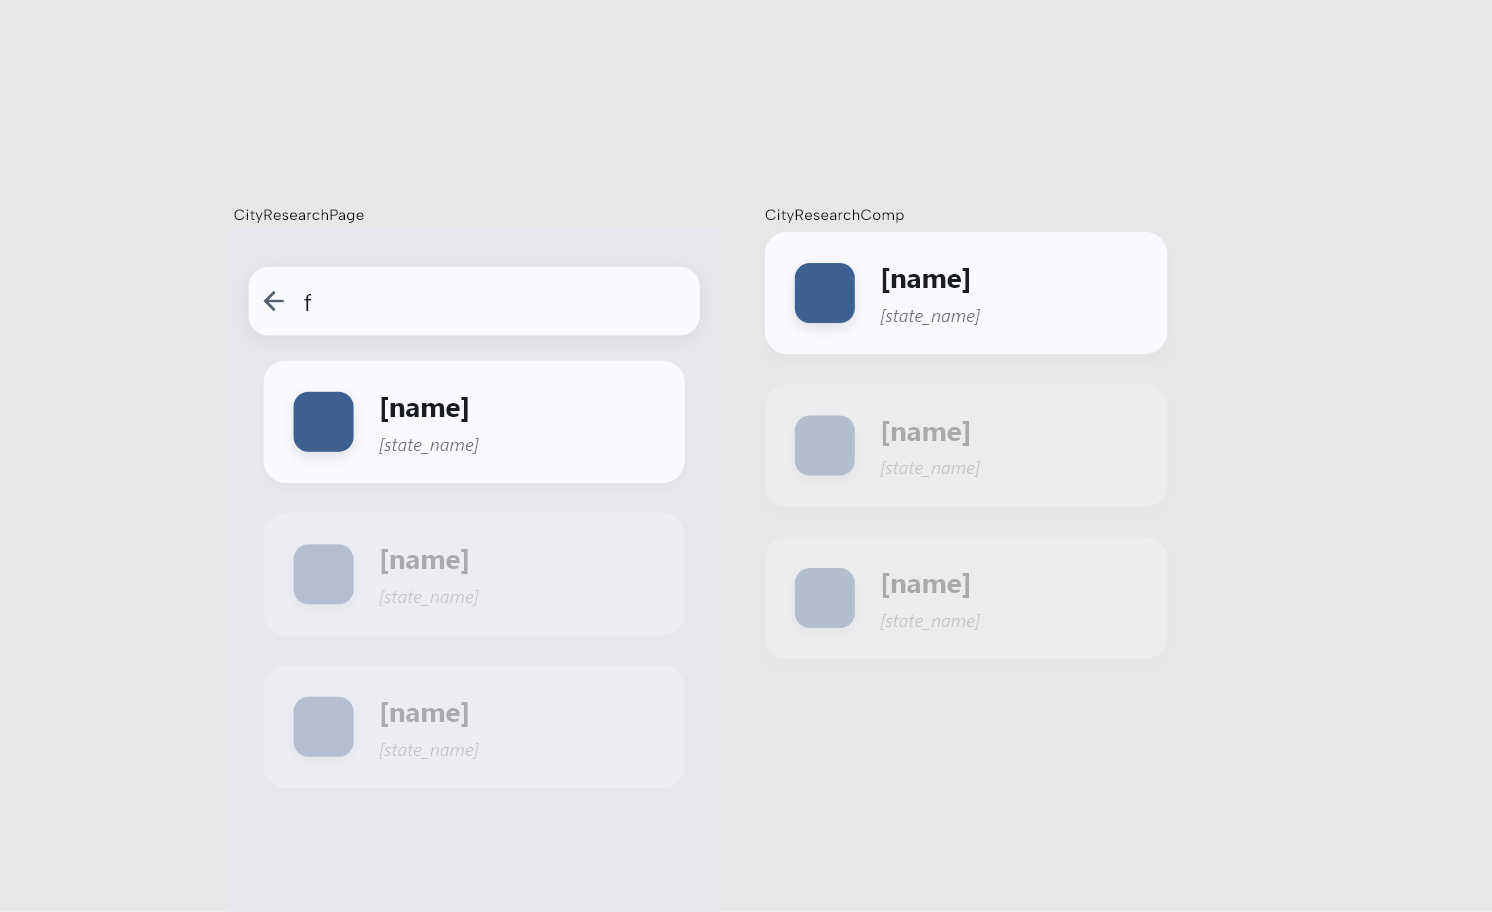
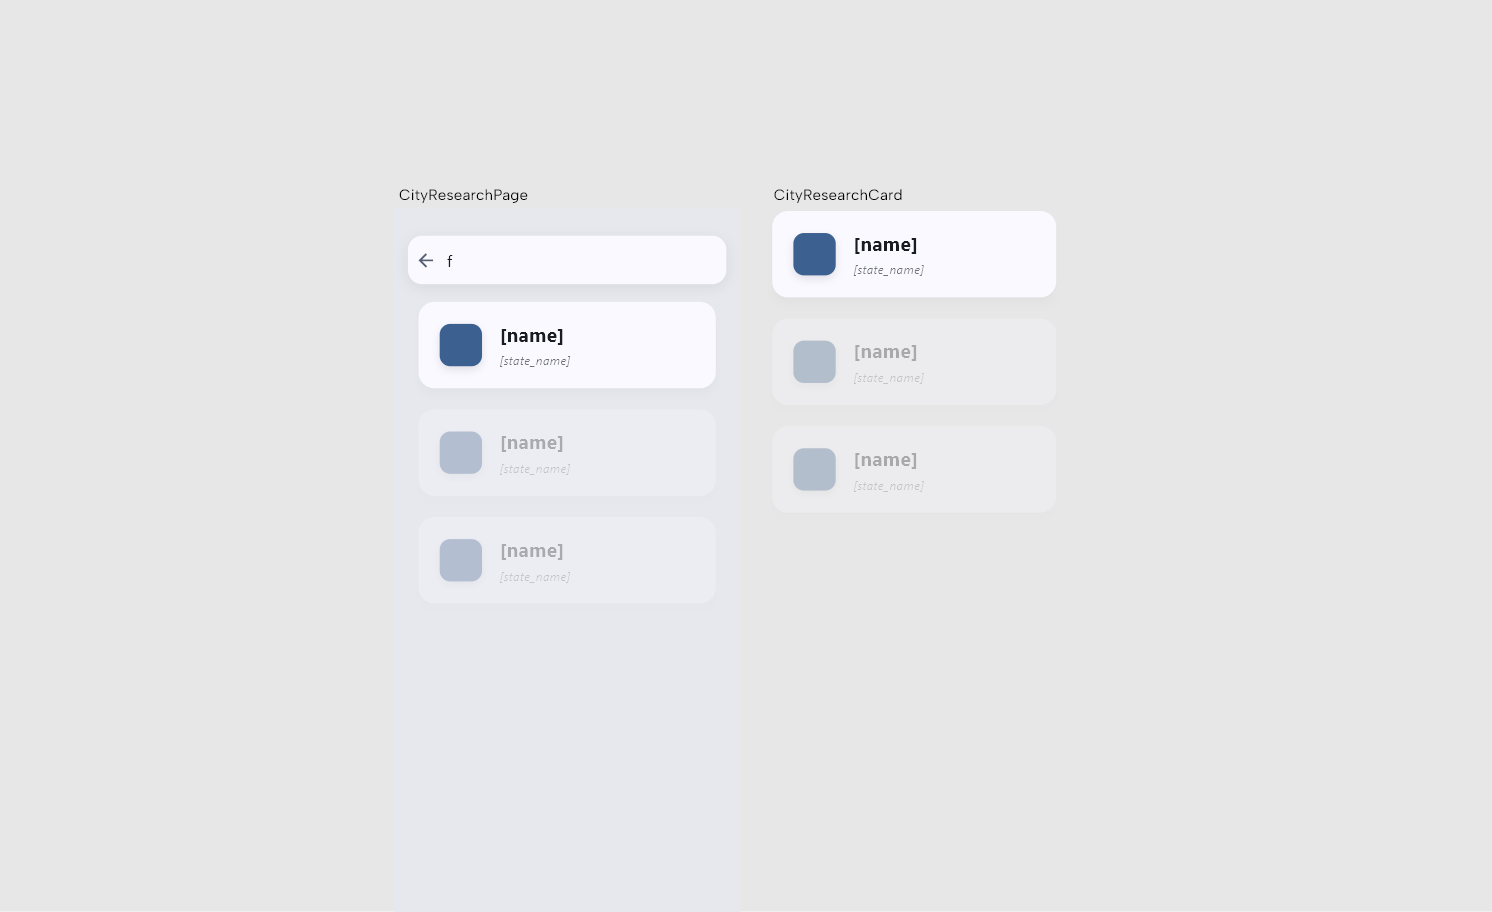
♻ Refactor components: rename and restructure Auth and CityResearch components

diff --git a/lib/components/city_research_card.dart b/lib/components/city_research_card.dart
@@ -5,20 +5,20 @@ import 'package:flutter_svg/flutter_svg.dart';
 import 'package:railmates/integrations/supabase_service.dart';
 
 @NowaGenerated({'auto-width': 330.0, 'auto-height': 350.0})
-class CityResearchComp extends StatefulWidget {
+class CityResearchCard extends StatefulWidget {
   @NowaGenerated({'loader': 'auto-constructor'})
-  const CityResearchComp({this.search = '', super.key});
+  const CityResearchCard({this.search = '', super.key});
 
   final String search;
 
   @override
-  State<CityResearchComp> createState() {
-    return _CityResearchCompState();
+  State<CityResearchCard> createState() {
+    return _CityResearchCardState();
   }
 }
 
 @NowaGenerated()
-class _CityResearchCompState extends State<CityResearchComp> {
+class _CityResearchCardState extends State<CityResearchCard> {
   @override
   Widget build(BuildContext context) {
     return DataBuilder<List<CitiesModel>>(
@@ -81,8 +81,9 @@ class _CityResearchCompState extends State<CityResearchComp> {
                         children: [
                           Text(
                             element.name!,
-                            style:
-                                Theme.of(context).textTheme.titleLarge
+                            style: Theme.of(context)
+                                    .textTheme
+                                    .titleLarge
                                     ?.copyWith(fontWeight: FontWeight.bold) ??
                                 const TextStyle(
                                   fontSize: 20.0,
@@ -92,15 +93,14 @@ class _CityResearchCompState extends State<CityResearchComp> {
                           const SizedBox(height: 6.0),
                           Text(
                             element.state_name!,
-                            style:
-                                Theme.of(
+                            style: Theme.of(
                                   context,
                                 ).textTheme.bodyMedium?.copyWith(
-                                  fontStyle: FontStyle.italic,
-                                  color: Theme.of(
-                                    context,
-                                  ).colorScheme.onSurface.withOpacity(0.6),
-                                ) ??
+                                      fontStyle: FontStyle.italic,
+                                      color: Theme.of(
+                                        context,
+                                      ).colorScheme.onSurface.withOpacity(0.6),
+                                    ) ??
                                 const TextStyle(
                                   fontSize: 14.0,
                                   fontStyle: FontStyle.italic,
@@ -128,9 +128,9 @@ class _CityResearchCompState extends State<CityResearchComp> {
         child: Text(
           error.toString(),
           style: Theme.of(context).textTheme.bodyLarge?.copyWith(
-            color: Theme.of(context).colorScheme.error,
-            fontWeight: FontWeight.bold,
-          ),
+                color: Theme.of(context).colorScheme.error,
+                fontWeight: FontWeight.bold,
+              ),
         ),
       ),
       future: SupabaseService().getAllCities(widget.search),

diff --git a/lib/pages/profile_page.dart b/lib/pages/profile_page.dart
@@ -2,9 +2,9 @@ import 'package:flutter/material.dart';
 import 'dart:typed_data';
 import 'package:nowa_runtime/nowa_runtime.dart';
 import 'package:railmates/integrations/supabase_service.dart';
-import 'package:railmates/components/auth_form_comp.dart';
+import 'package:railmates/components/auth_form.dart';
 import 'package:railmates/models/profiles_model.dart';
-import 'package:railmates/components/auth_text_form_field_comp.dart';
+import 'package:railmates/components/auth_text_form_field.dart';
 import 'package:railmates/models/cities_model.dart';
 import 'package:railmates/pages/city_research_page.dart';
 
@@ -137,7 +137,7 @@ class _ProfilePageState extends State<ProfilePage> {
                     ),
                   ),
                   FlexSizedBox(
-                    child: AuthFormComp(
+                    child: AuthForm(
                       nom: 'Create your profile',
                       buttonName: 'Save',
                       submitForm: () {
@@ -176,19 +176,19 @@ class _ProfilePageState extends State<ProfilePage> {
                             );
                       },
                       textFields: [
-                        AuthTextFormFieldComp(
+                        AuthTextFormField(
                           label: 'First Name',
                           required: true,
                           controller: firstNameController,
                           icon: Icons.person_outline,
                         ),
-                        AuthTextFormFieldComp(
+                        AuthTextFormField(
                           label: 'Last Name',
                           required: true,
                           controller: lastNameController,
                           icon: Icons.person,
                         ),
-                        AuthTextFormFieldComp(
+                        AuthTextFormField(
                           label: 'Birth Date',
                           required: true,
                           controller: birthDateController,
@@ -231,7 +231,7 @@ class _ProfilePageState extends State<ProfilePage> {
                             }
                           },
                         ),
-                        AuthTextFormFieldComp(
+                        AuthTextFormField(
                           label: 'City',
                           required: true,
                           controller: cityController,

diff --git a/lib/pages/register_page.dart b/lib/pages/register_page.dart
@@ -1,9 +1,9 @@
 import 'package:flutter/material.dart';
 import 'package:nowa_runtime/nowa_runtime.dart';
-import 'package:railmates/components/auth_form_comp.dart';
+import 'package:railmates/components/auth_form.dart';
 import 'package:railmates/integrations/supabase_service.dart';
 import 'package:railmates/pages/otp_page.dart';
-import 'package:railmates/components/auth_text_form_field_comp.dart';
+import 'package:railmates/components/auth_text_form_field.dart';
 import 'package:railmates/pages/login_page.dart';
 
 @NowaGenerated({'x': 420, 'y': 0, 'auto-width': 393.0, 'auto-height': 808.0})
@@ -58,7 +58,7 @@ class _RegisterPageState extends State<RegisterPage> {
                 crossAxisAlignment: CrossAxisAlignment.center,
                 children: [
                   FlexSizedBox(
-                    child: AuthFormComp(
+                    child: AuthForm(
                       nom: 'Create account',
                       buttonName: 'Sign up',
                       submitForm: () {
@@ -115,7 +115,7 @@ class _RegisterPageState extends State<RegisterPage> {
                         }
                       },
                       textFields: [
-                        AuthTextFormFieldComp(
+                        AuthTextFormField(
                           label: 'Email',
                           required: true,
                           controller: emailController,
@@ -124,7 +124,7 @@ class _RegisterPageState extends State<RegisterPage> {
                           regexValidator:
                               '^[a-zA-Z0-9._%+-]+@[a-zA-Z0-9.-]+.[a-zA-Z]{2,}\$',
                         ),
-                        AuthTextFormFieldComp(
+                        AuthTextFormField(
                           label: 'Password',
                           required: true,
                           obscure: true,
@@ -135,7 +135,7 @@ class _RegisterPageState extends State<RegisterPage> {
                           regexValidator:
                               '^(?=.*[a-z])(?=.*[A-Z])(?=.*\\d)(?=.*[^a-zA-Z0-9]).{8,}\$',
                         ),
-                        AuthTextFormFieldComp(
+                        AuthTextFormField(
                           label: 'Confirm password',
                           obscure: true,
                           required: true,

diff --git a/lib/pages/login_page.dart b/lib/pages/login_page.dart
@@ -1,8 +1,8 @@
 import 'package:flutter/material.dart';
 import 'package:nowa_runtime/nowa_runtime.dart';
-import 'package:railmates/components/auth_form_comp.dart';
+import 'package:railmates/components/auth_form.dart';
 import 'package:railmates/integrations/supabase_service.dart';
-import 'package:railmates/components/auth_text_form_field_comp.dart';
+import 'package:railmates/components/auth_text_form_field.dart';
 import 'package:railmates/pages/otp_page.dart';
 import 'package:supabase_flutter/supabase_flutter.dart';
 import 'package:railmates/pages/register_page.dart';
@@ -48,7 +48,7 @@ class _LoginPageState extends State<LoginPage> {
               child: Column(
                 mainAxisSize: MainAxisSize.min,
                 children: [
-                  AuthFormComp(
+                  AuthForm(
                     submitForm: () {
                       SupabaseService()
                           .signIn(
@@ -81,7 +81,7 @@ class _LoginPageState extends State<LoginPage> {
                           );
                     },
                     textFields: [
-                      AuthTextFormFieldComp(
+                      AuthTextFormField(
                         label: 'Email',
                         required: true,
                         controller: emailController,
@@ -91,7 +91,7 @@ class _LoginPageState extends State<LoginPage> {
                         regexValidator:
                             '^[a-zA-Z0-9._%+-]+@[a-zA-Z0-9.-]+.[a-zA-Z]{2,}\$',
                       ),
-                      AuthTextFormFieldComp(
+                      AuthTextFormField(
                         label: 'Password',
                         required: true,
                         controller: passwordController,

diff --git a/lib/pages/forgot_password_page.dart b/lib/pages/forgot_password_page.dart
@@ -1,7 +1,7 @@
 import 'package:flutter/material.dart';
 import 'package:nowa_runtime/nowa_runtime.dart';
-import 'package:railmates/components/auth_form_comp.dart';
-import 'package:railmates/components/auth_text_form_field_comp.dart';
+import 'package:railmates/components/auth_form.dart';
+import 'package:railmates/components/auth_text_form_field.dart';
 import 'package:railmates/integrations/supabase_service.dart';
 
 @NowaGenerated()
@@ -55,11 +55,11 @@ class _ForgotPasswordPageState extends State<ForgotPasswordPage> {
                 crossAxisAlignment: CrossAxisAlignment.center,
                 children: [
                   FlexSizedBox(
-                    child: AuthFormComp(
+                    child: AuthForm(
                       nom: 'Reset password',
                       icon: Icons.lock_reset,
                       textFields: [
-                        AuthTextFormFieldComp(
+                        AuthTextFormField(
                           label: 'New password',
                           controller: newPasswordController,
                           obscure: true,
@@ -70,7 +70,7 @@ class _ForgotPasswordPageState extends State<ForgotPasswordPage> {
                           regexValidator:
                               '^(?=.*[a-z])(?=.*[A-Z])(?=.*\\d)(?=.*[^a-zA-Z0-9]).{8,}\$',
                         ),
-                        AuthTextFormFieldComp(
+                        AuthTextFormField(
                           label: 'Confirm password',
                           required: true,
                           obscure: true,

diff --git a/lib/components/auth_text_form_field.dart b/lib/components/auth_text_form_field.dart
@@ -2,9 +2,9 @@ import 'package:flutter/material.dart';
 import 'package:nowa_runtime/nowa_runtime.dart';
 
 @NowaGenerated({'auto-width': 200.0, 'auto-height': 60.0})
-class AuthTextFormFieldComp extends StatefulWidget {
+class AuthTextFormField extends StatefulWidget {
   @NowaGenerated({'loader': 'auto-constructor'})
-  const AuthTextFormFieldComp({
+  const AuthTextFormField({
     this.icon = Icons.text_fields,
     this.label = 'Label',
     this.controller,
@@ -33,13 +33,13 @@ class AuthTextFormFieldComp extends StatefulWidget {
   final String? regexValidator;
 
   @override
-  State<AuthTextFormFieldComp> createState() {
-    return _AuthTextFormFieldCompState();
+  State<AuthTextFormField> createState() {
+    return _AuthTextFormFieldState();
   }
 }
 
 @NowaGenerated()
-class _AuthTextFormFieldCompState extends State<AuthTextFormFieldComp> {
+class _AuthTextFormFieldState extends State<AuthTextFormField> {
   late bool _isObscure = false;
 
   late FocusNode _focusNode;
@@ -88,8 +88,8 @@ class _AuthTextFormFieldCompState extends State<AuthTextFormFieldComp> {
                   : null,
               labelText: widget.label,
               labelStyle: Theme.of(context).textTheme.labelSmall?.copyWith(
-                color: Theme.of(context).colorScheme.onSurfaceVariant,
-              ),
+                    color: Theme.of(context).colorScheme.onSurfaceVariant,
+                  ),
               contentPadding: const EdgeInsets.symmetric(
                 vertical: 12.0,
                 horizontal: 8.0,

diff --git a/lib/pages/otp_page.dart b/lib/pages/otp_page.dart
@@ -1,11 +1,11 @@
 import 'package:flutter/material.dart';
 import 'package:nowa_runtime/nowa_runtime.dart';
-import 'package:railmates/components/auth_form_comp.dart';
+import 'package:railmates/components/auth_form.dart';
 import 'package:railmates/integrations/supabase_service.dart';
 import 'package:supabase_flutter/supabase_flutter.dart';
 import 'package:railmates/pages/profile_page.dart';
 import 'package:railmates/pages/forgot_password_page.dart';
-import 'package:railmates/components/auth_text_form_field_comp.dart';
+import 'package:railmates/components/auth_text_form_field.dart';
 
 @NowaGenerated({'auto-width': 393.0, 'x': 0, 'y': 0, 'auto-height': 808.5})
 class OtpPage extends StatefulWidget {
@@ -52,7 +52,7 @@ class _OtpPageState extends State<OtpPage> {
               child: Column(
                 mainAxisSize: MainAxisSize.min,
                 children: [
-                  AuthFormComp(
+                  AuthForm(
                     submitForm: () {
                       SupabaseService()
                           .verifyOTP(
@@ -100,7 +100,7 @@ class _OtpPageState extends State<OtpPage> {
                           );
                     },
                     textFields: [
-                      AuthTextFormFieldComp(
+                      AuthTextFormField(
                         label: 'Token',
                         required: true,
                         controller: tokenController,

diff --git a/lib/components/auth_form.dart b/lib/components/auth_form.dart
@@ -2,9 +2,9 @@ import 'package:flutter/material.dart';
 import 'package:nowa_runtime/nowa_runtime.dart';
 
 @NowaGenerated({'auto-width': 200.0, 'auto-height': 150.0})
-class AuthFormComp extends StatefulWidget {
+class AuthForm extends StatefulWidget {
   @NowaGenerated({'loader': 'auto-constructor'})
-  const AuthFormComp({
+  const AuthForm({
     this.nom = 'Login',
     this.buttonName = 'Sign in',
     this.icon = Icons.login_rounded,
@@ -24,13 +24,13 @@ class AuthFormComp extends StatefulWidget {
   final List<Widget> textFields;
 
   @override
-  State<AuthFormComp> createState() {
-    return _AuthFormCompState();
+  State<AuthForm> createState() {
+    return _AuthFormState();
   }
 }
 
 @NowaGenerated()
-class _AuthFormCompState extends State<AuthFormComp> {
+class _AuthFormState extends State<AuthForm> {
   final GlobalKey<FormState> _formKey = GlobalKey<FormState>();
 
   @override

diff --git a/lib/pages/city_research_page.dart b/lib/pages/city_research_page.dart
@@ -1,7 +1,7 @@
 import 'package:flutter/material.dart';
 import 'dart:async';
 import 'package:nowa_runtime/nowa_runtime.dart';
-import 'package:railmates/components/city_research_comp.dart';
+import 'package:railmates/components/city_research_card.dart';
 
 @NowaGenerated({'auto-height': 807.5})
 class CityResearchPage extends StatefulWidget {
@@ -108,7 +108,7 @@ class _CityResearchPageState extends State<CityResearchPage> {
                   vertical: 16.0,
                   horizontal: 8.0,
                 ),
-                child: CityResearchComp(search: searchPrefixController.text),
+                child: CityResearchCard(search: searchPrefixController.text),
               ),
             ),
           ],
